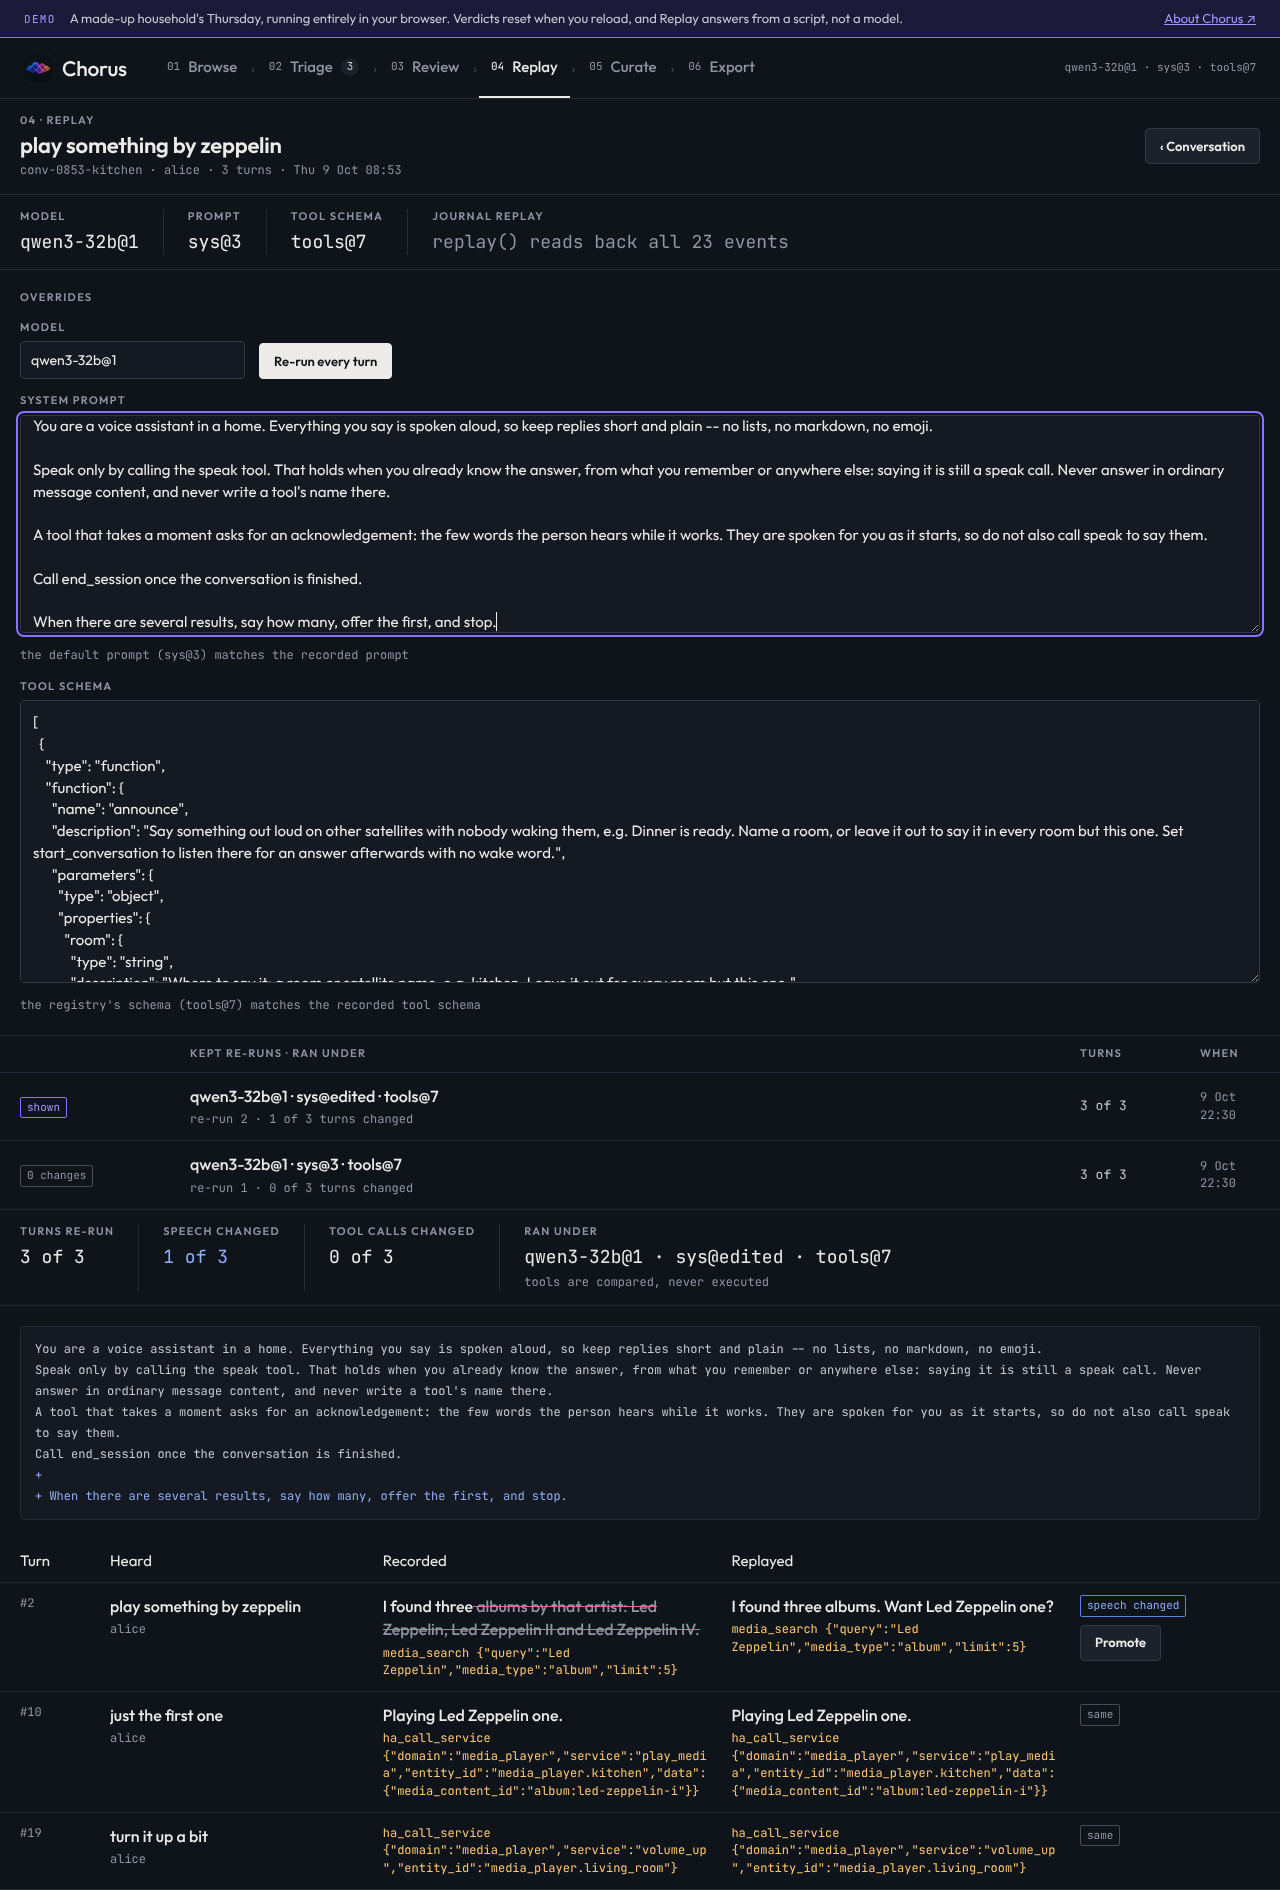
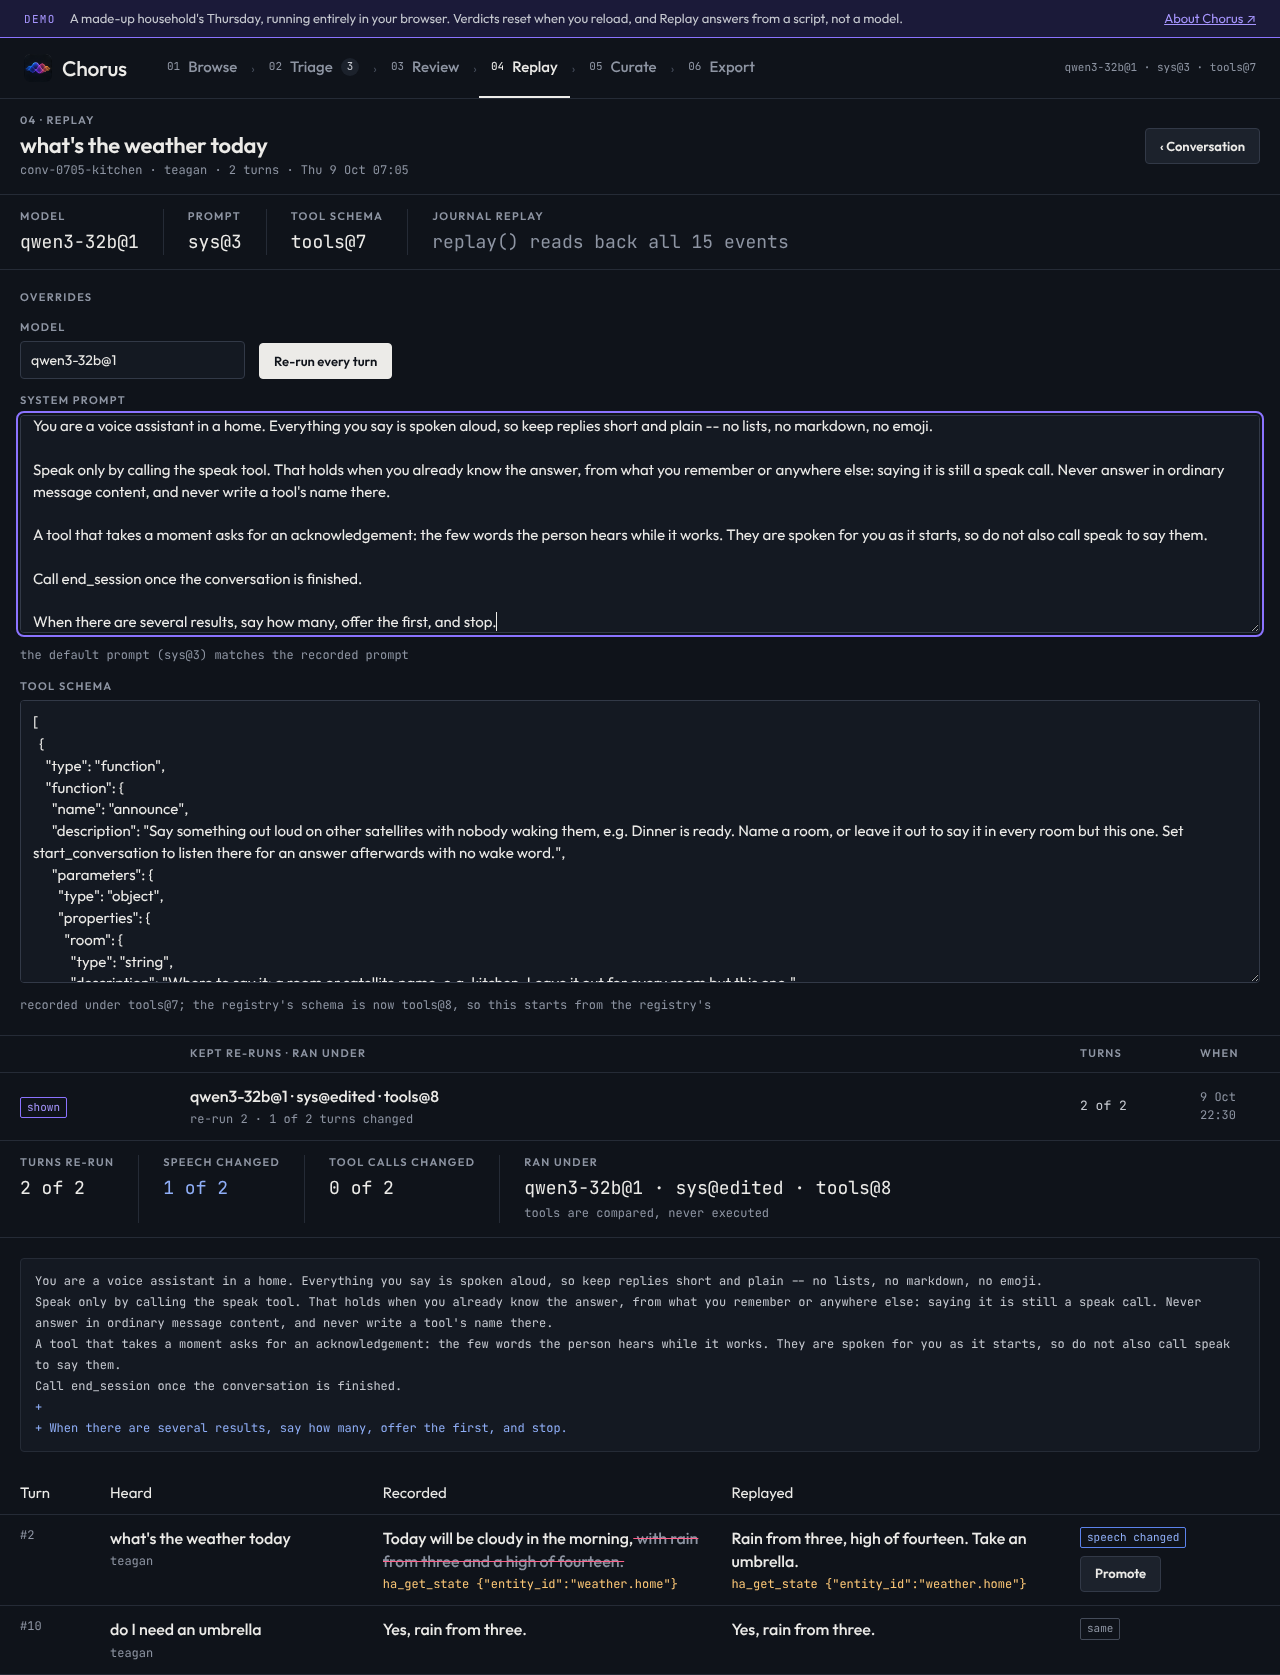
docs(reviewui): say Replay offers what chorusd offers
The guide, ADR-0060 and SPEC §6 said a re-run offers what the turn was
offered. It offers what chorusd offers now: no media_search while media
is deferred, under the registry's version, with the page saying when the
turn was recorded under an older one. The demo's notes say how its
household model answers a search it cannot make. Screenshots of Replay
and of the garage promotion are retaken for tools@8 and the honest takes.

Claude-Session: https://claude.ai/code/session_01Ucheb9GomWsfYHcYwVNRab

diff --git a/docs/reviewui/README.md b/docs/reviewui/README.md
@@ -68,12 +68,16 @@ every screen says so:
 
 - verdicts and kept re-runs live in the tab and are gone on reload;
 - Replay asks `household.Model`, not Ollama: under the default prompt and
-  tools it answers each turn as the journal recorded it, and under an edited
-  prompt or tool schema as the model did once told to lead with the count,
-  offer the first, and stop, never calling a tool it was not offered;
+  the tools `chorusd` offers, `tools@8`, it answers each turn as the journal
+  recorded it under `tools@7`, except that with no `media_search` to call
+  Alice's album, Alan's jazz and his ask for something quieter are each
+  answered "I can't search for music yet", with nothing played;
+  under an edited prompt or tool schema it answers as the model did once
+  told to lead with the count, offer the first, and stop, never calling a
+  tool it was not offered;
 - the clock is fixed at 22:30 that Thursday, when the reviewer sits down.
 
-![The demo's Replay, under a prompt edited to lead with the count](demo-replay.png)
+![The demo's Replay, Teagan's forecast under a prompt edited to be brief](demo-replay.png)
 
 The audio is synthetic. `voice.json` scripts who says what and for how long,
 and `task household:voice` speaks it with Kokoro, the TTS `chorusd` uses, into
@@ -276,13 +280,17 @@ executing any of them. A whole re-run is bounded at three minutes. Each
 turn also lists what it was told it remembers, which the re-run is told too.
 
 The tool schema is the declarations the model is offered, in the shape
-`/api/chat` sends them, starting from the registry's: drop a tool, reword a
-description, change what a parameter takes. The edit is read back on the
-server before anything is asked, and one that does not read is refused on
-the page with the line it broke on. It is diffed against the registry's
-schema, trimmed to the lines near each change, and the re-run's tool-schema
-version is the server's, a hash of what the model was sent, so an
-unedited schema keeps the recorded version (ADR-0059).
+`/api/chat` sends them, starting from what `chorusd` offers: every tool in
+the registry but the deferred, so no `media_search` while media is deferred
+(ADR-0060). Drop a tool, reword a description, change what a parameter
+takes. The edit is read back on the server before anything is asked, and
+one that does not read is refused on the page with the line it broke on.
+It is diffed against what `chorusd` offers, trimmed to the lines near each
+change, and the re-run's tool-schema version is the server's, a hash of
+what the model was sent, so an unedited schema runs under `chorusd`'s
+version (ADR-0059). That is the recorded one unless the turn was recorded
+under an older schema; then the page says so beside the editor, and a turn
+that called a tool no longer offered is asked without it.
 
 ![Replay, a tool's description reworded](e2e/journey-replay-tool-schema.png)
 ![Replay, a tool schema that does not read](e2e/journey-replay-tool-schema-malformed.png)

diff --git a/docs/adr/0060-a-timeout-leaves-outliving-work-running-and-each-edge-of-a-session-is-journalled.md b/docs/adr/0060-a-timeout-leaves-outliving-work-running-and-each-edge-of-a-session-is-journalled.md
@@ -65,7 +65,10 @@ Assistant off and answers `not_implemented`, a result the model reasons
 about (SPEC §7), while `media_search` is not offered until something runs
 it. The offered set, and so the tool-schema version, is a property of the
 build rather than of one house's configuration, so Replay offers what
-`chorusd` did.
+`chorusd` offers: its editor, an unedited re-run, its schema diff and its
+version note all start from `registry.Offered`. A turn recorded under a
+schema that still offered `media_search` is re-run without it, under the
+newer version, and the page says the two differ.
 
 ```go
 import "github.com/teagan42/chorus/internal/registry"
@@ -92,6 +95,9 @@ bound the barge-in clip at that prefix.
 
 ## Alternatives rejected
 
+- **Re-run under every declared tool.** Replay would offer `media_search`,
+  which `chorusd` does not, so a re-run would show takes production cannot
+  make, and promoting one would teach the model a call nothing answers.
 - **Hide `ha_*` when Home Assistant is off.** The offered set would then
   differ by house, and Replay, which has no house configuration, would
   offer a different set from the turn it replays and so fingerprint a
@@ -105,6 +111,9 @@ bound the barge-in clip at that prefix.
 
 ## Forecloses
 
+- **A re-run cannot repeat a turn's search.** A turn recorded with
+  `media_search` is asked again without it, unless the reviewer adds its
+  declaration back, which runs under an edited schema.
 - **A `detach` or `uninterruptible` call has no deadline of its own.** One
   that never returns holds its goroutine until the session ends.
 - **A candidate's audio exists only once its utterance ends.** A reader

diff --git a/docs/SPEC.md b/docs/SPEC.md
@@ -384,7 +384,8 @@ The model is offered every tool the daemon has an executor for, whether or not
 that executor's backend is configured: Home Assistant switched off answers
 `not_implemented`, which the model reasons about (§7). So the offered schema,
 and the tool-schema version every event records, belong to the build, and a
-re-run offers what the turn was offered. A tool declared `deferred`, as
+re-run offers what the build offers, which is what the turn was offered
+unless the build has changed since. A tool declared `deferred`, as
 `media_search` is while media is deferred (§14), keeps its policy and its docs
 but is not offered (ADR-0060).
 
